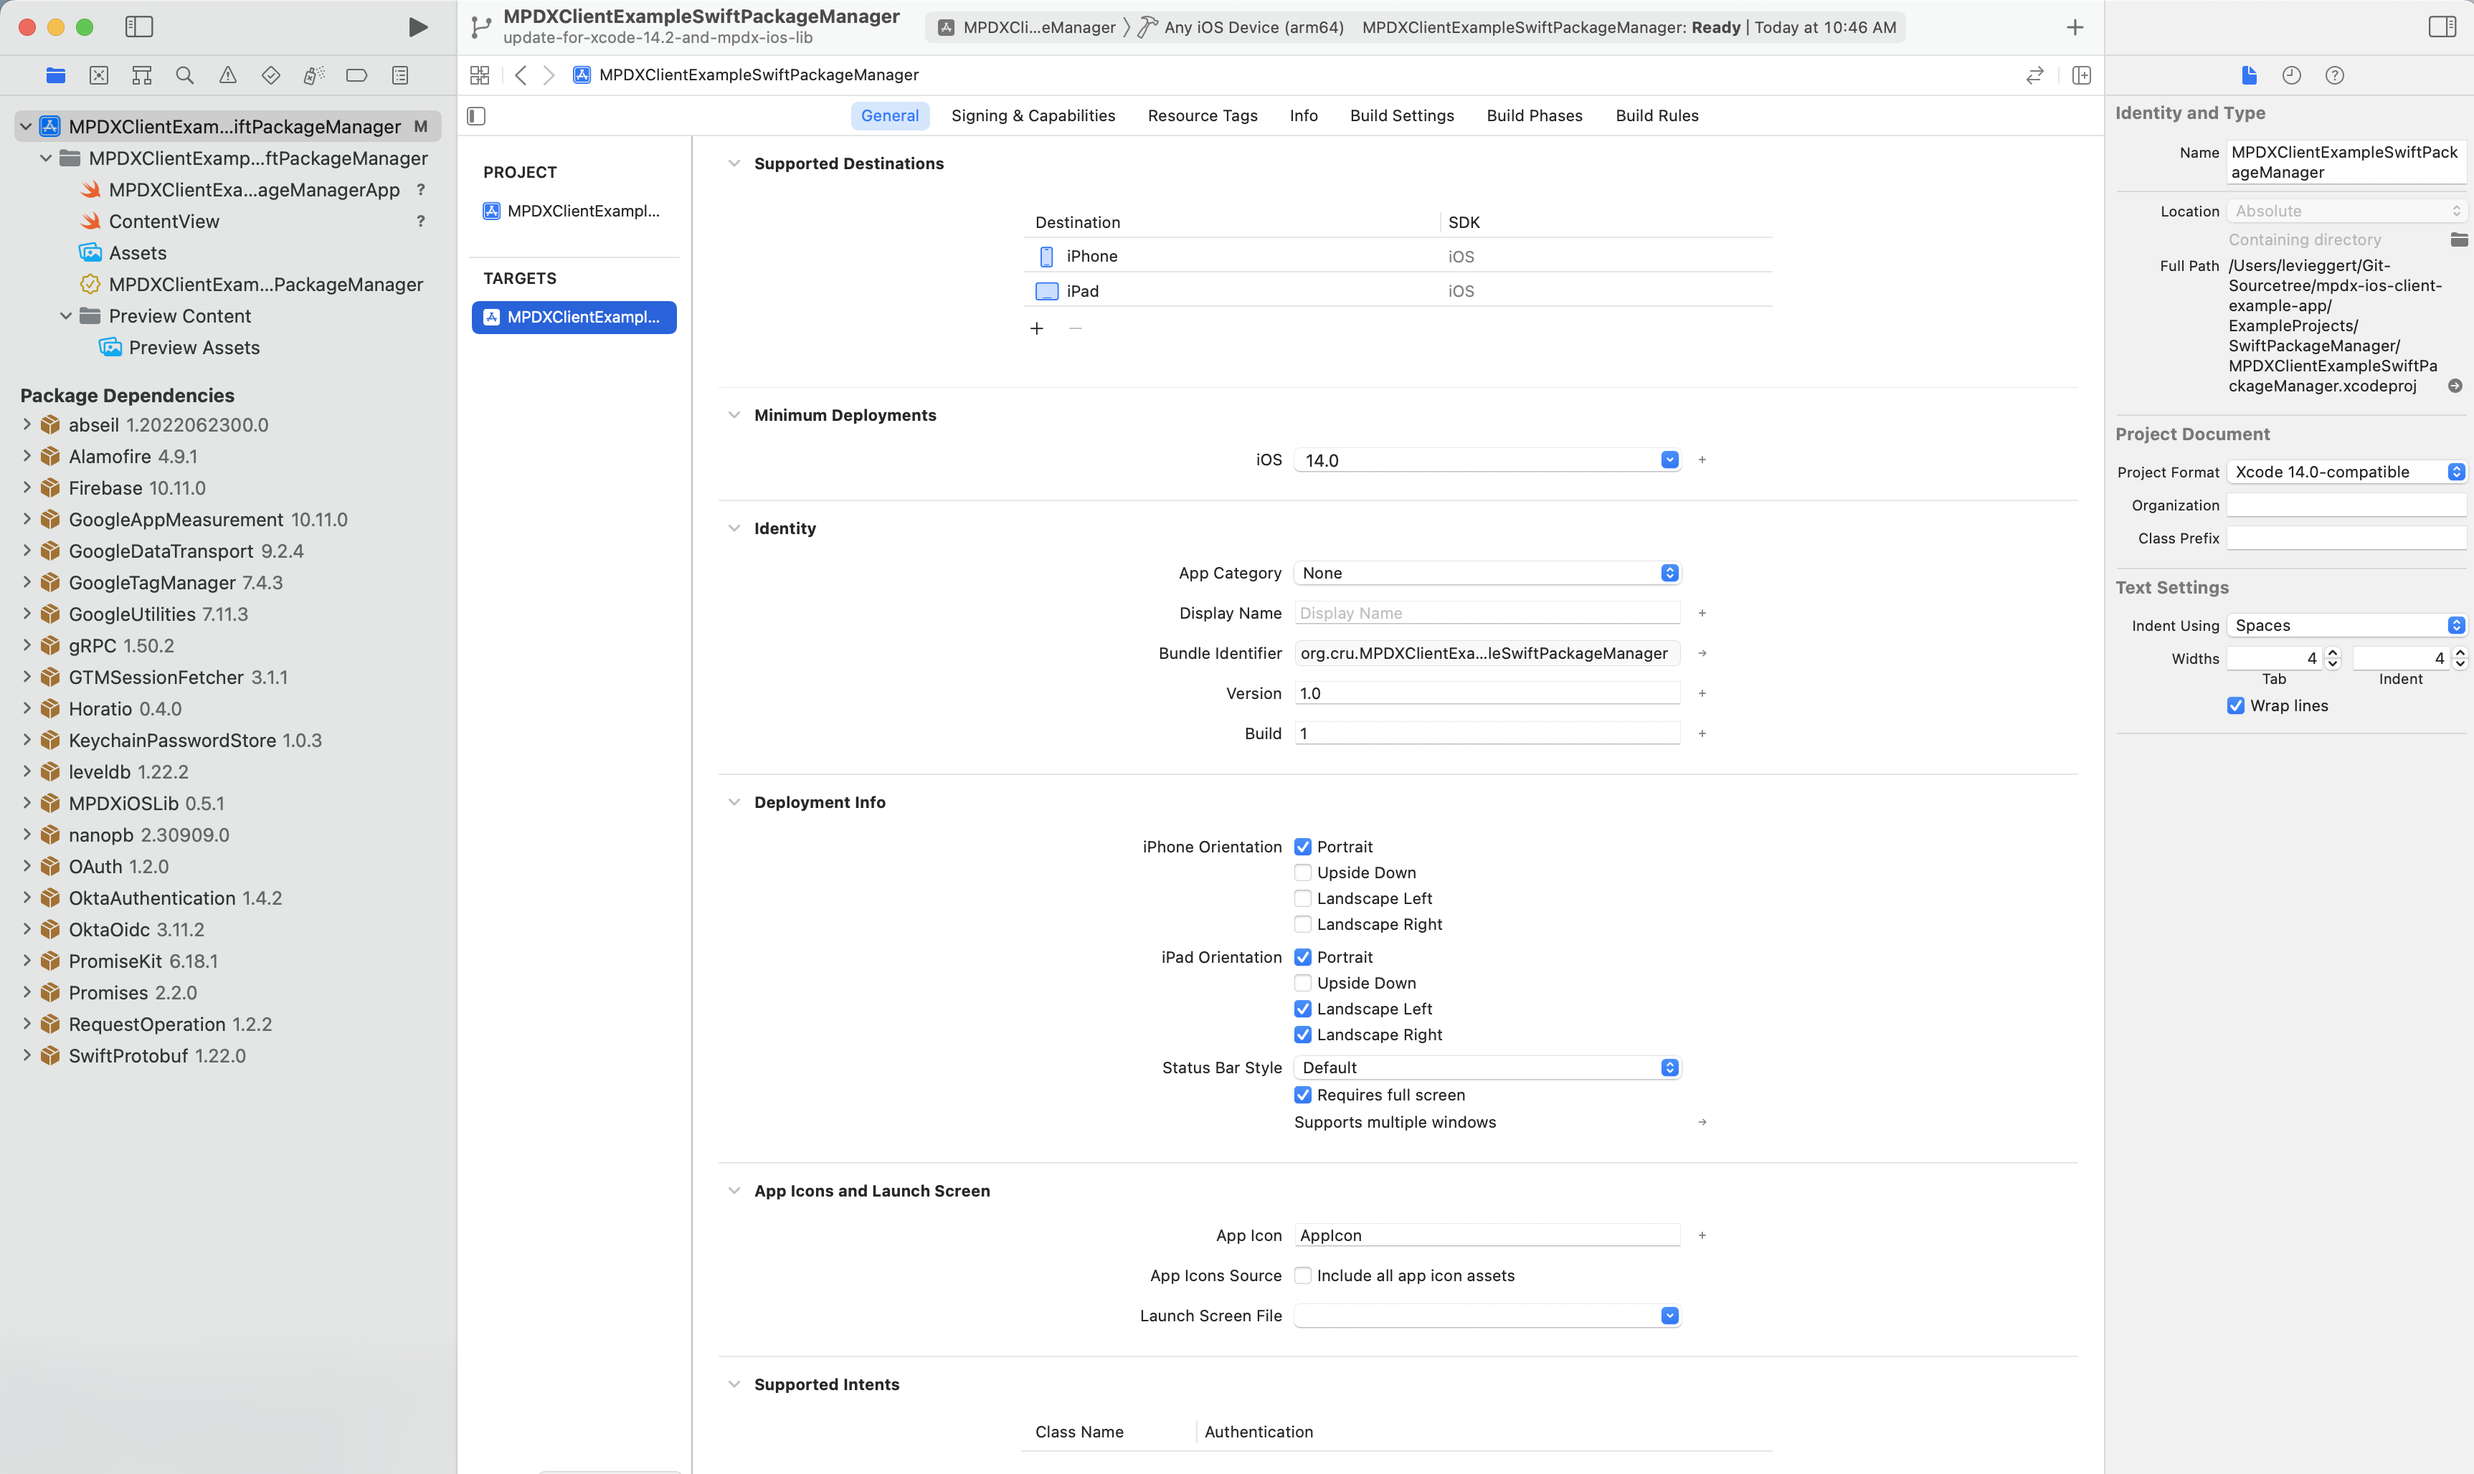
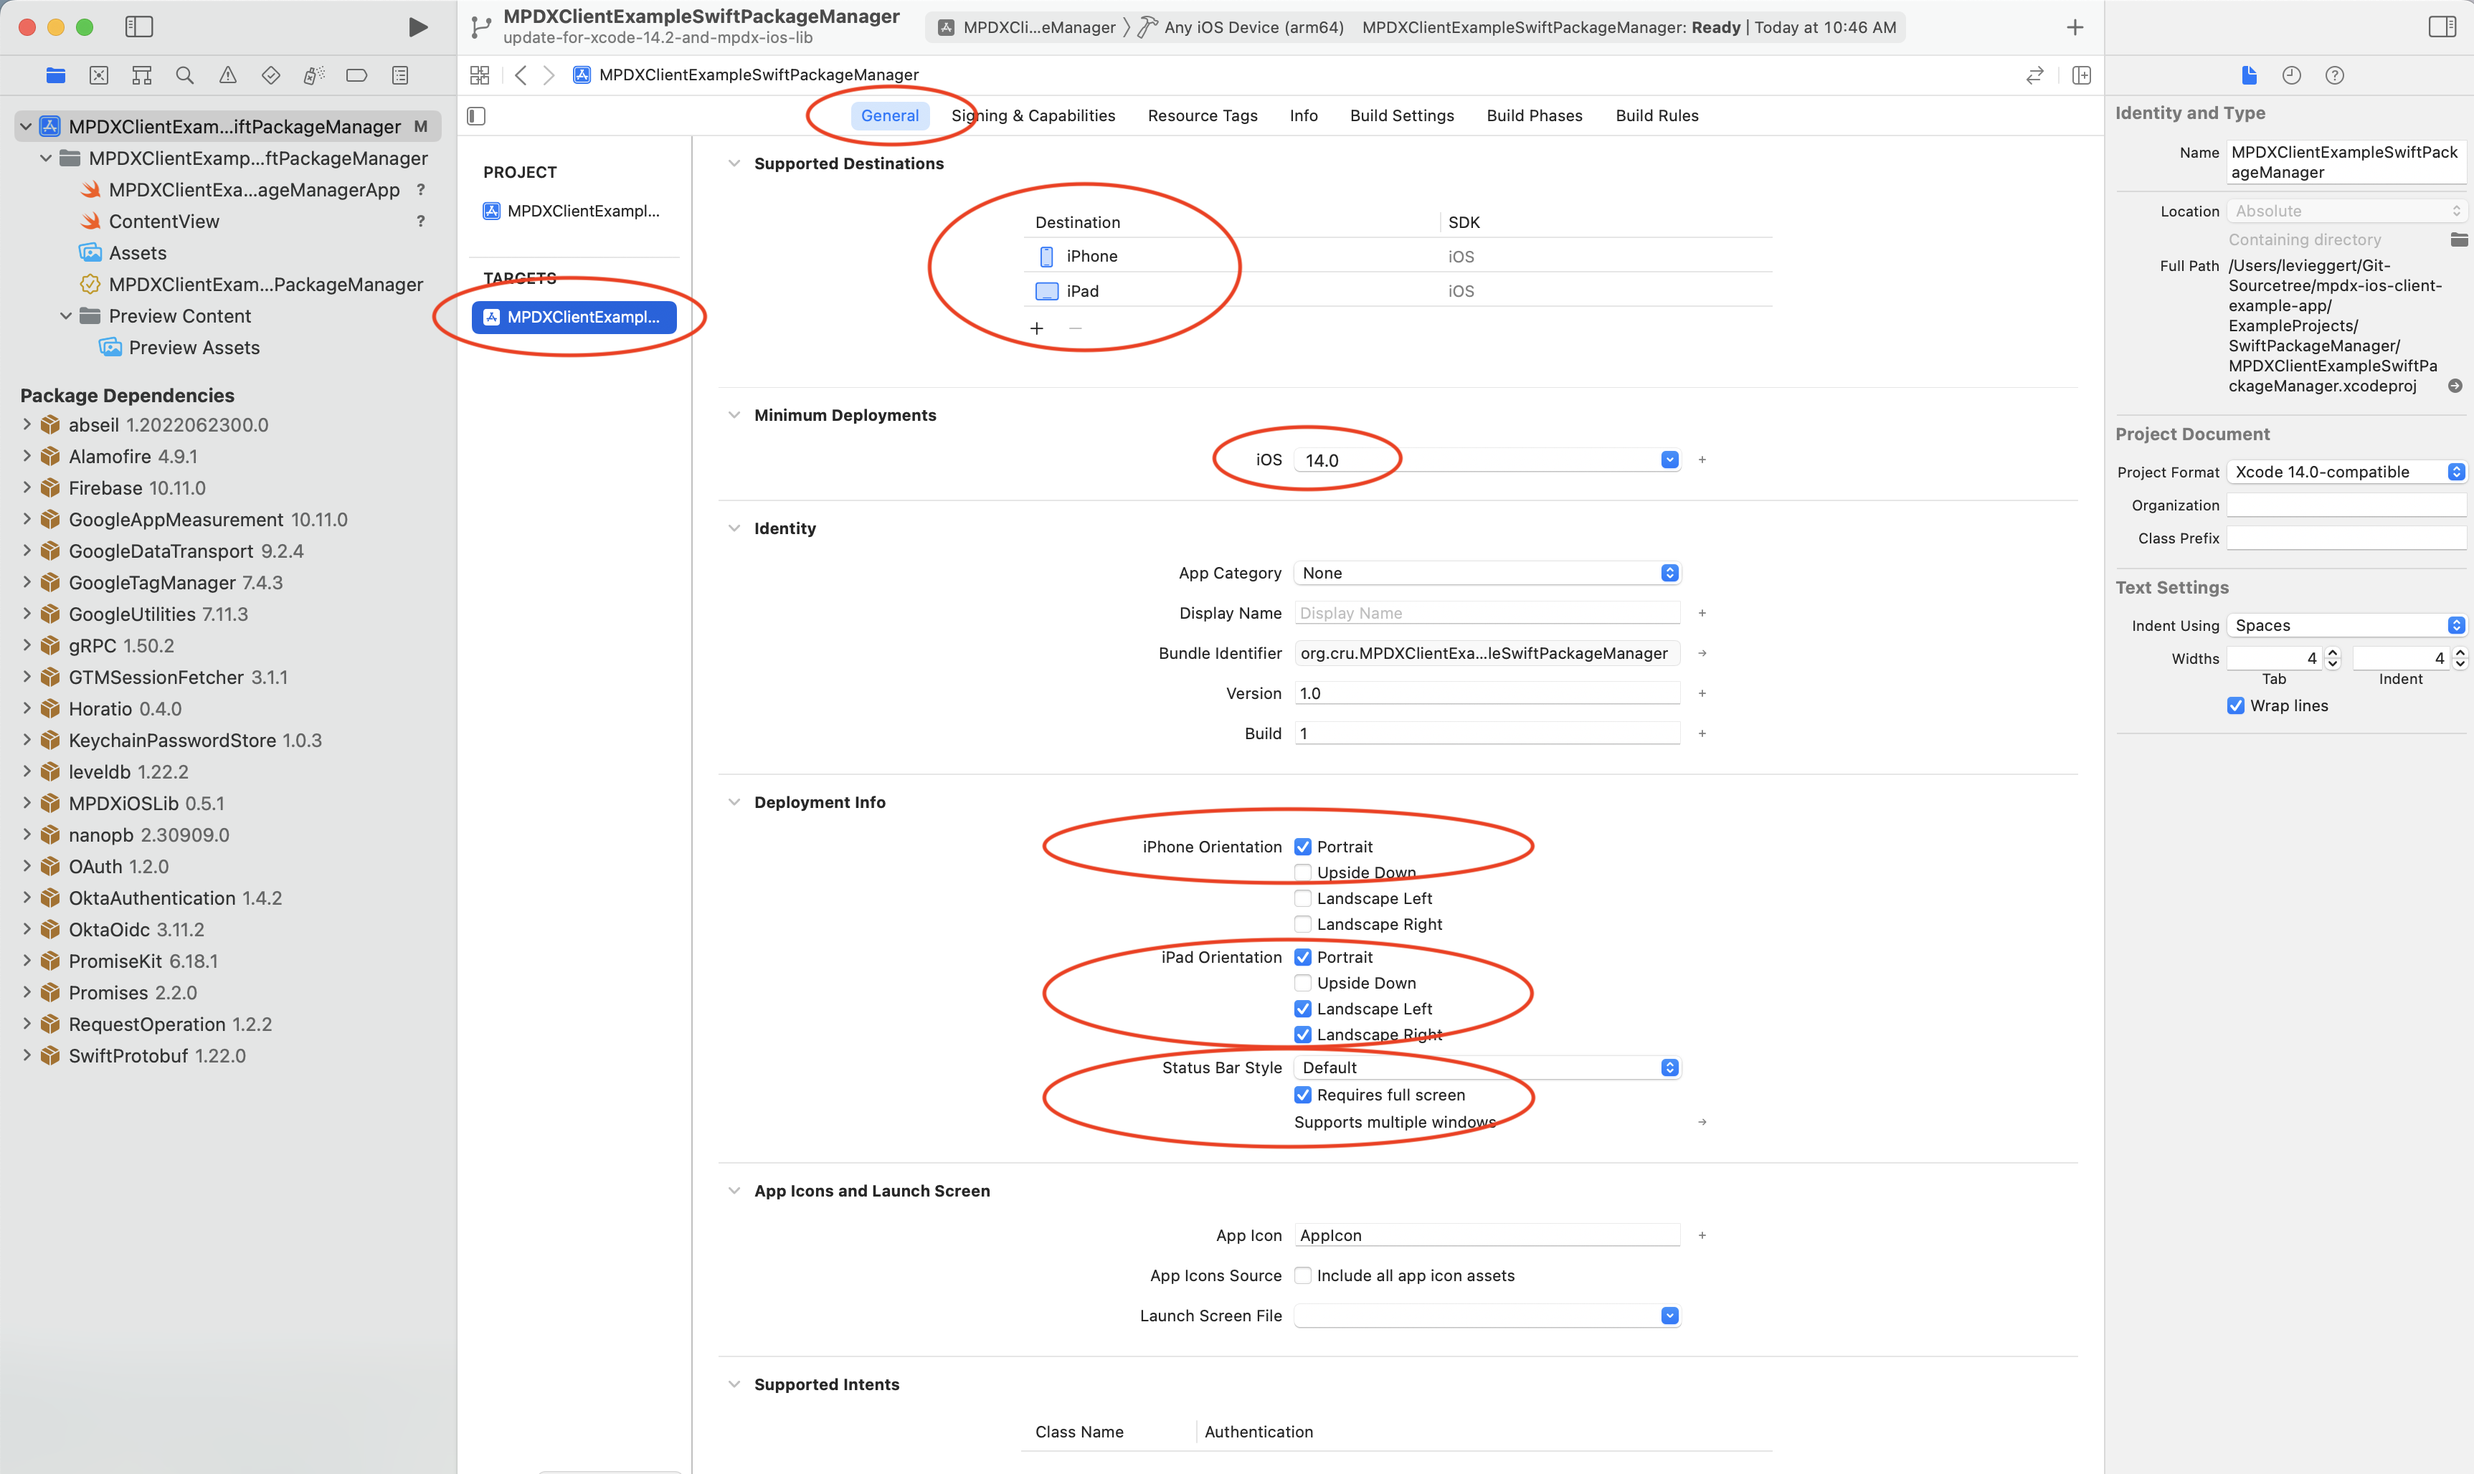
Add instruction for project info deployment target

diff --git a/README.md b/README.md
@@ -63,14 +63,17 @@ NOTE: You can view the latest MPDXiOSLib version either [here](https://github.co
 - The Xcode file to open will depend on the dependency manager used. <br>  
   - For Swift Package Manager open the .xcodeproj file. <br>
   - For Cocoapods open the .xcworkspace file (Generated from pod install). <br>
-- Configure your Xcode build target with the following:
+- Configure your Xcode project build target with the following:
   - Delete Mac under Supported Destinations.
-  - Set Minimum Deployments to iOS 14.0.
+  - Set Minimum Deployment to iOS 14.0.
   - Set iPhone Orientation to Portrait.
   - Set iPad Orientation to Portrait, Landscape Left, Landscape Right.
   - Set Status Bar Style to Default.
   - Check Requires full screen.
     ![alt text](ReadMeAssets/configure-xcode-project/xcode-target-general.png) <br><br>
+- Configure your Xcode project info.
+  - Set the Deployment Target to iOS 14.
+    ![alt text](ReadMeAssets/configure-xcode-project/xcode-project-info.png) <br><br>
 - Delete the .swift files that Xcode generated for SwiftUI projects.  There is a ContentView.swift and {YourProjectName}App.swift file.
   ![alt text](ReadMeAssets/configure-xcode-project/xcode-delete-swiftui-files.png) <br><br>
 
